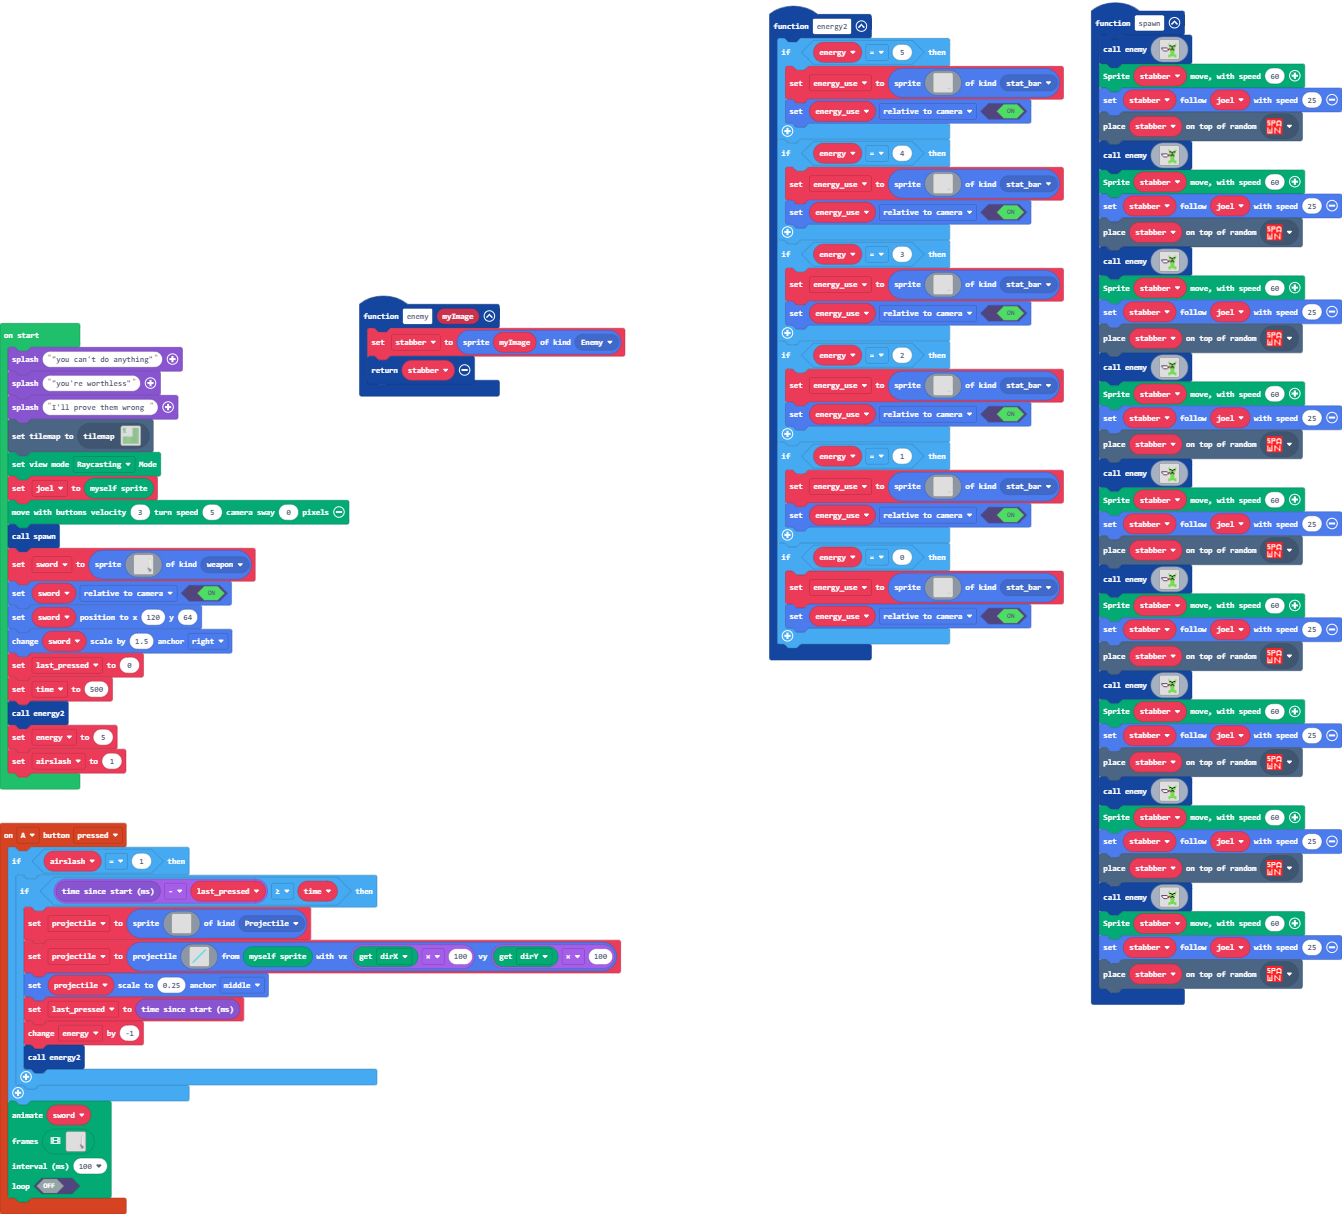
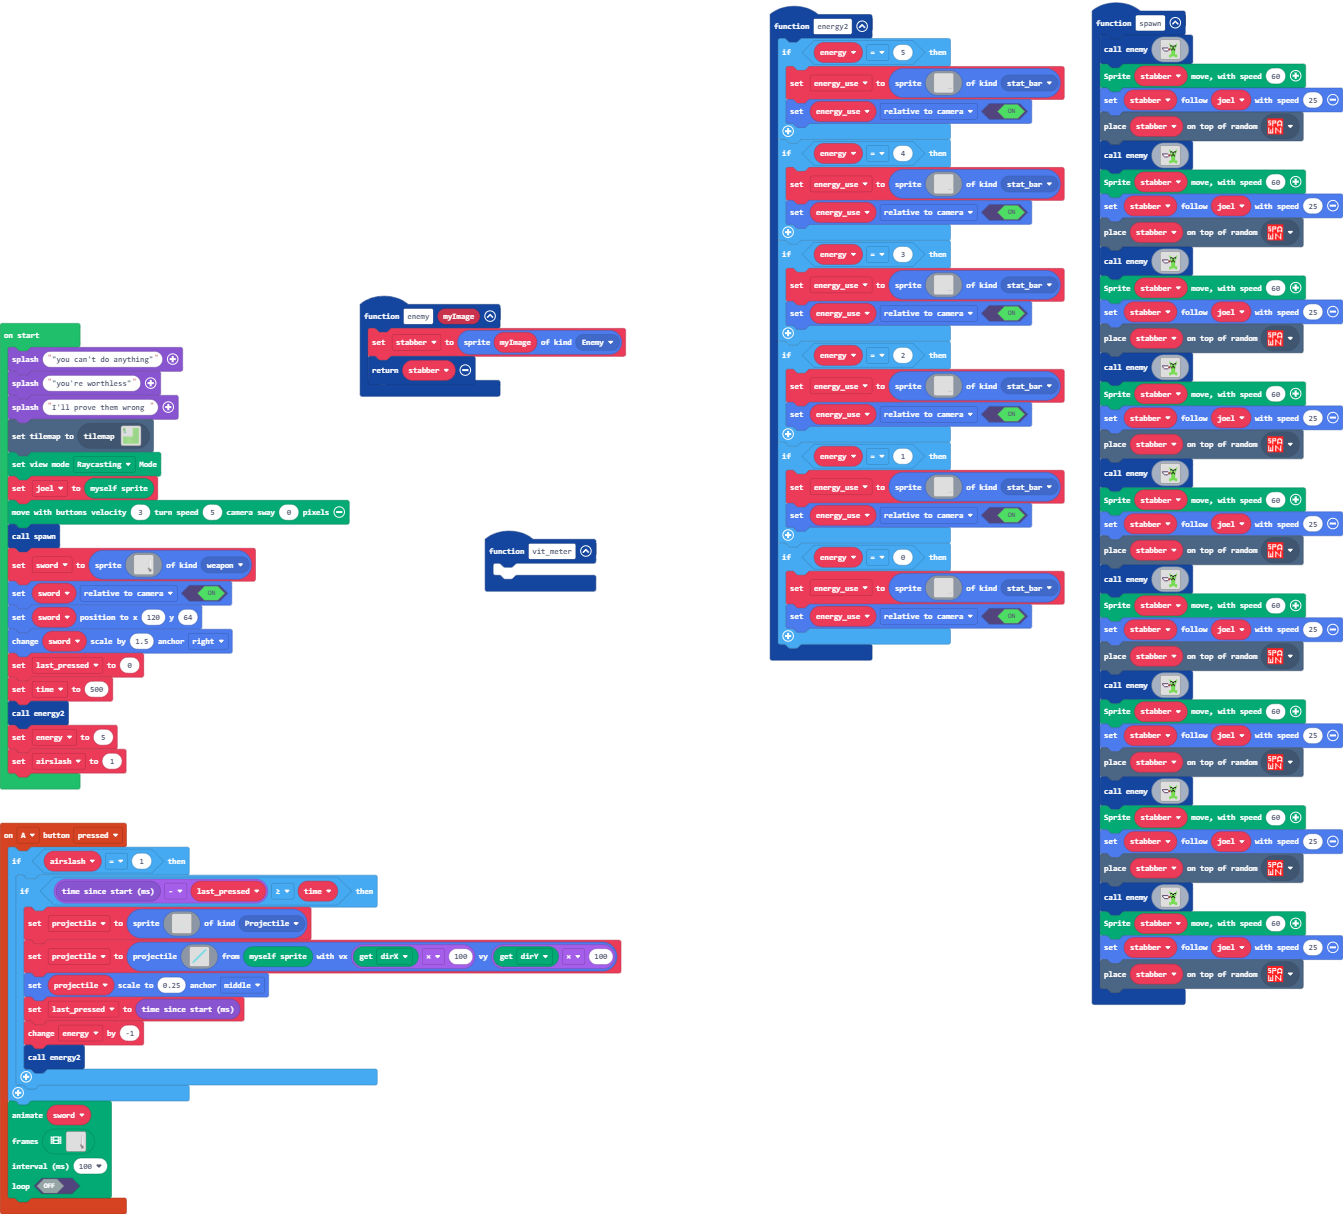
Update pxt.json, main.blocks, main.ts

diff --git a/main.ts b/main.ts
@@ -323,6 +323,9 @@ controller.A.onEvent(ControllerButtonEvent.Pressed, function () {
     false
     )
 })
+function vit_meter () {
+	
+}
 function enemy (myImage: Image) {
     stabber = sprites.create(myImage, SpriteKind.Enemy)
     return stabber
